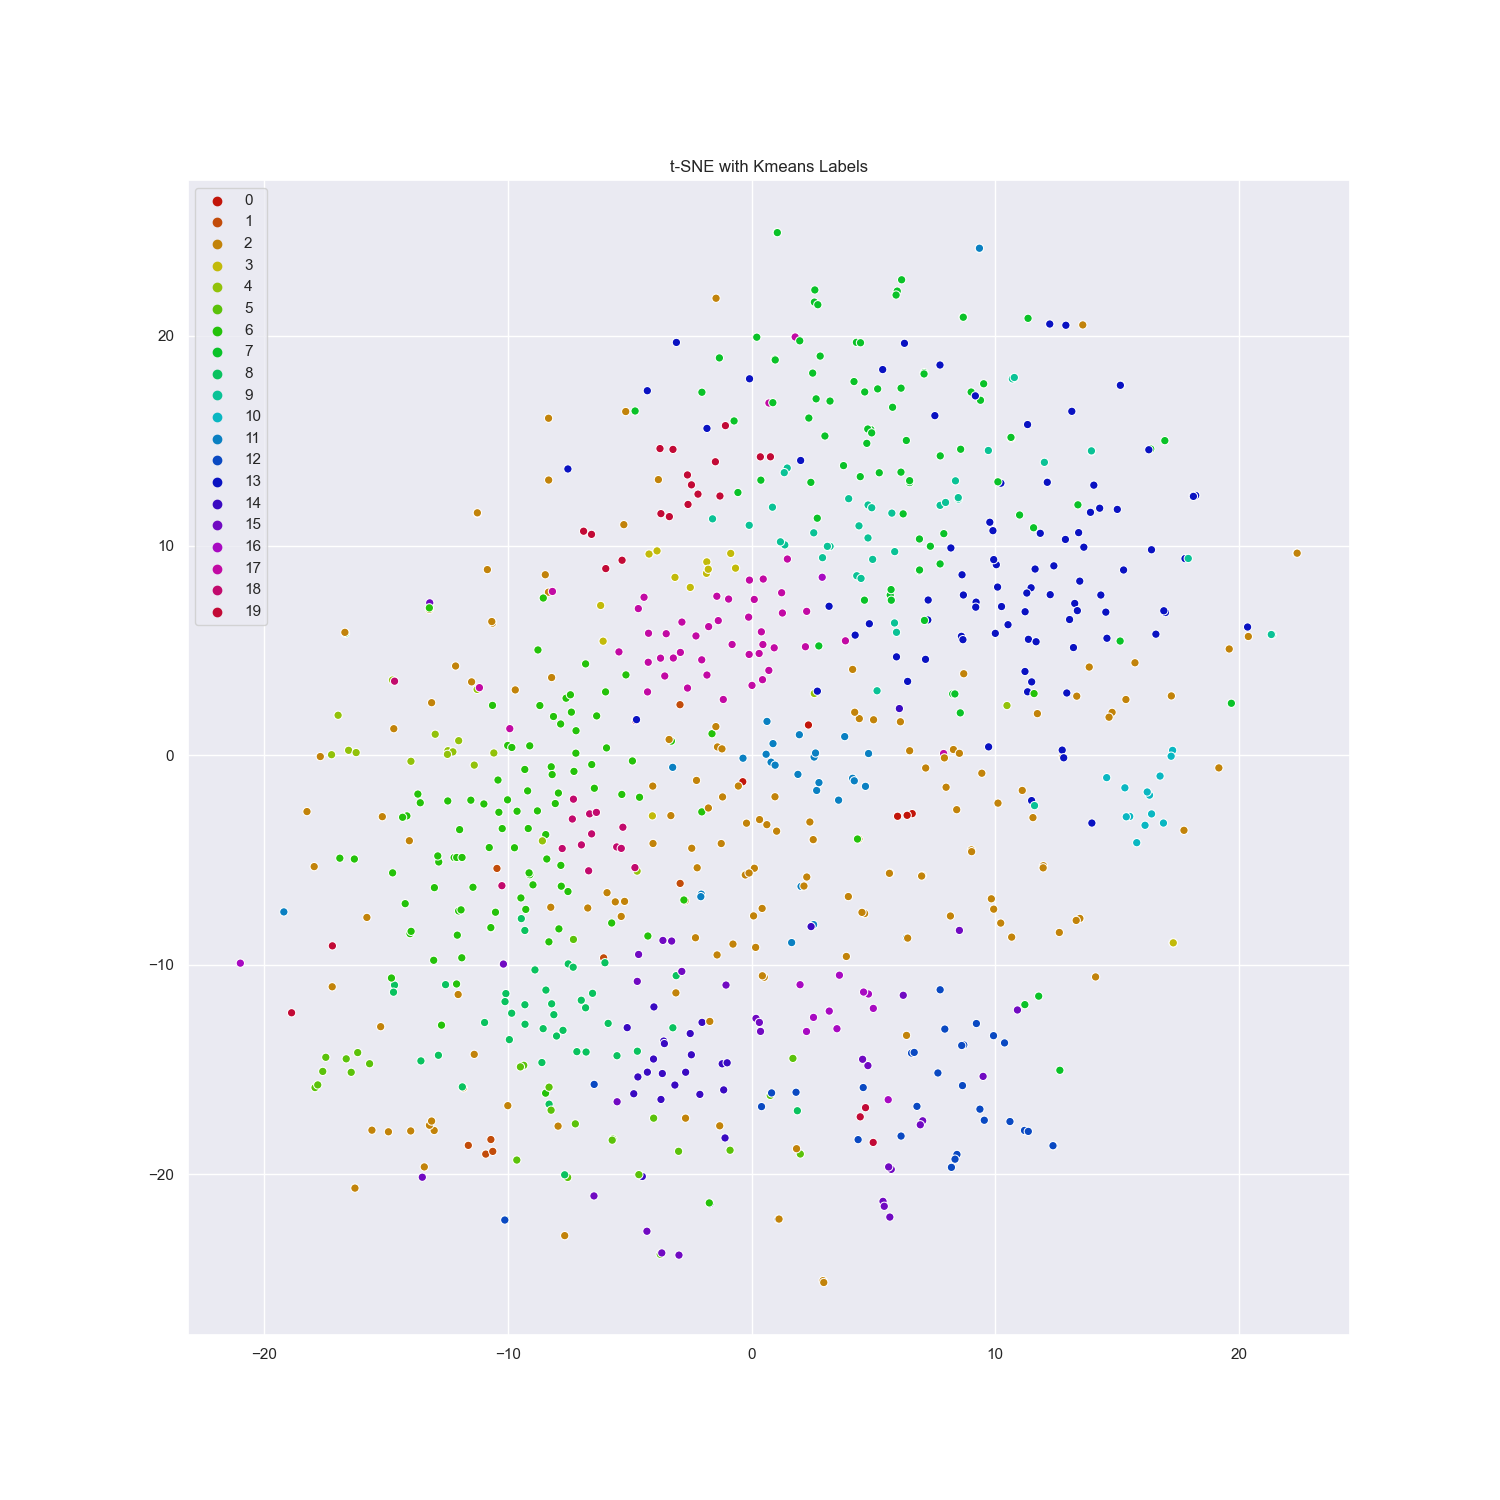
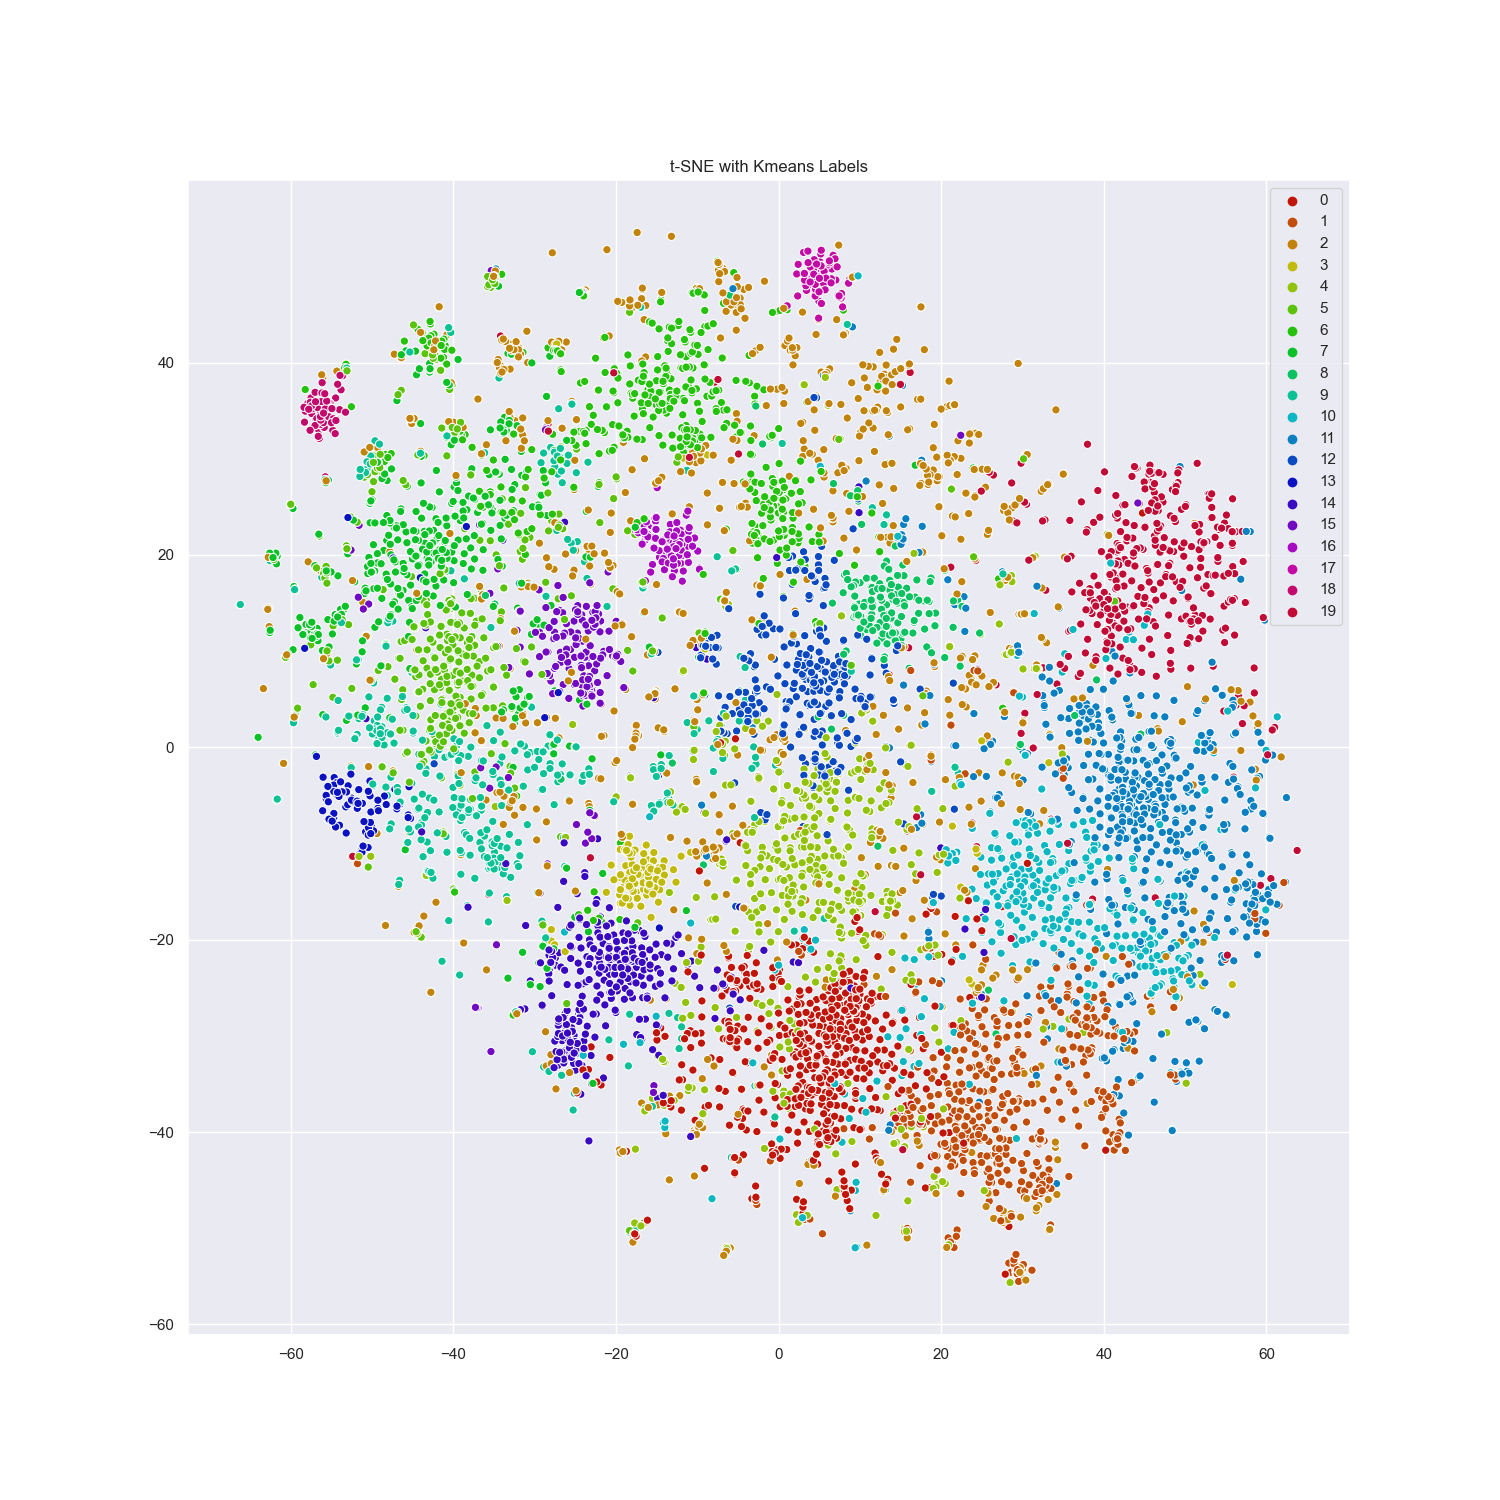
Solução com literature_clustering

Changed region(s): [[0.1227, 0.1227, 0.8587, 0.8587], [0.8587, 0.1227, 0.8893, 0.3987], [0.3987, 0.7973, 0.4293, 0.828]]

diff --git a/code/nlp_covid/literature_clustering.py b/code/nlp_covid/literature_clustering.py
@@ -1,8 +1,8 @@
 # Main source: https://www.kaggle.com/maksimeren/covid-19-literature-clustering
 
 ROOT_PATH = 'C:\\Users\\amondejar\\Desktop\\SharedVM\\dataset'
-QUANT_PAPERS = 10000
-RANGE_INDEX = 8892
+QUANT_PAPERS = 50000
+RANGE_INDEX = 44557
 # RangeIndex samples:
 # For 10000 papers, we have 8892 entries
 # For 1000 papers, we have 898 entries
